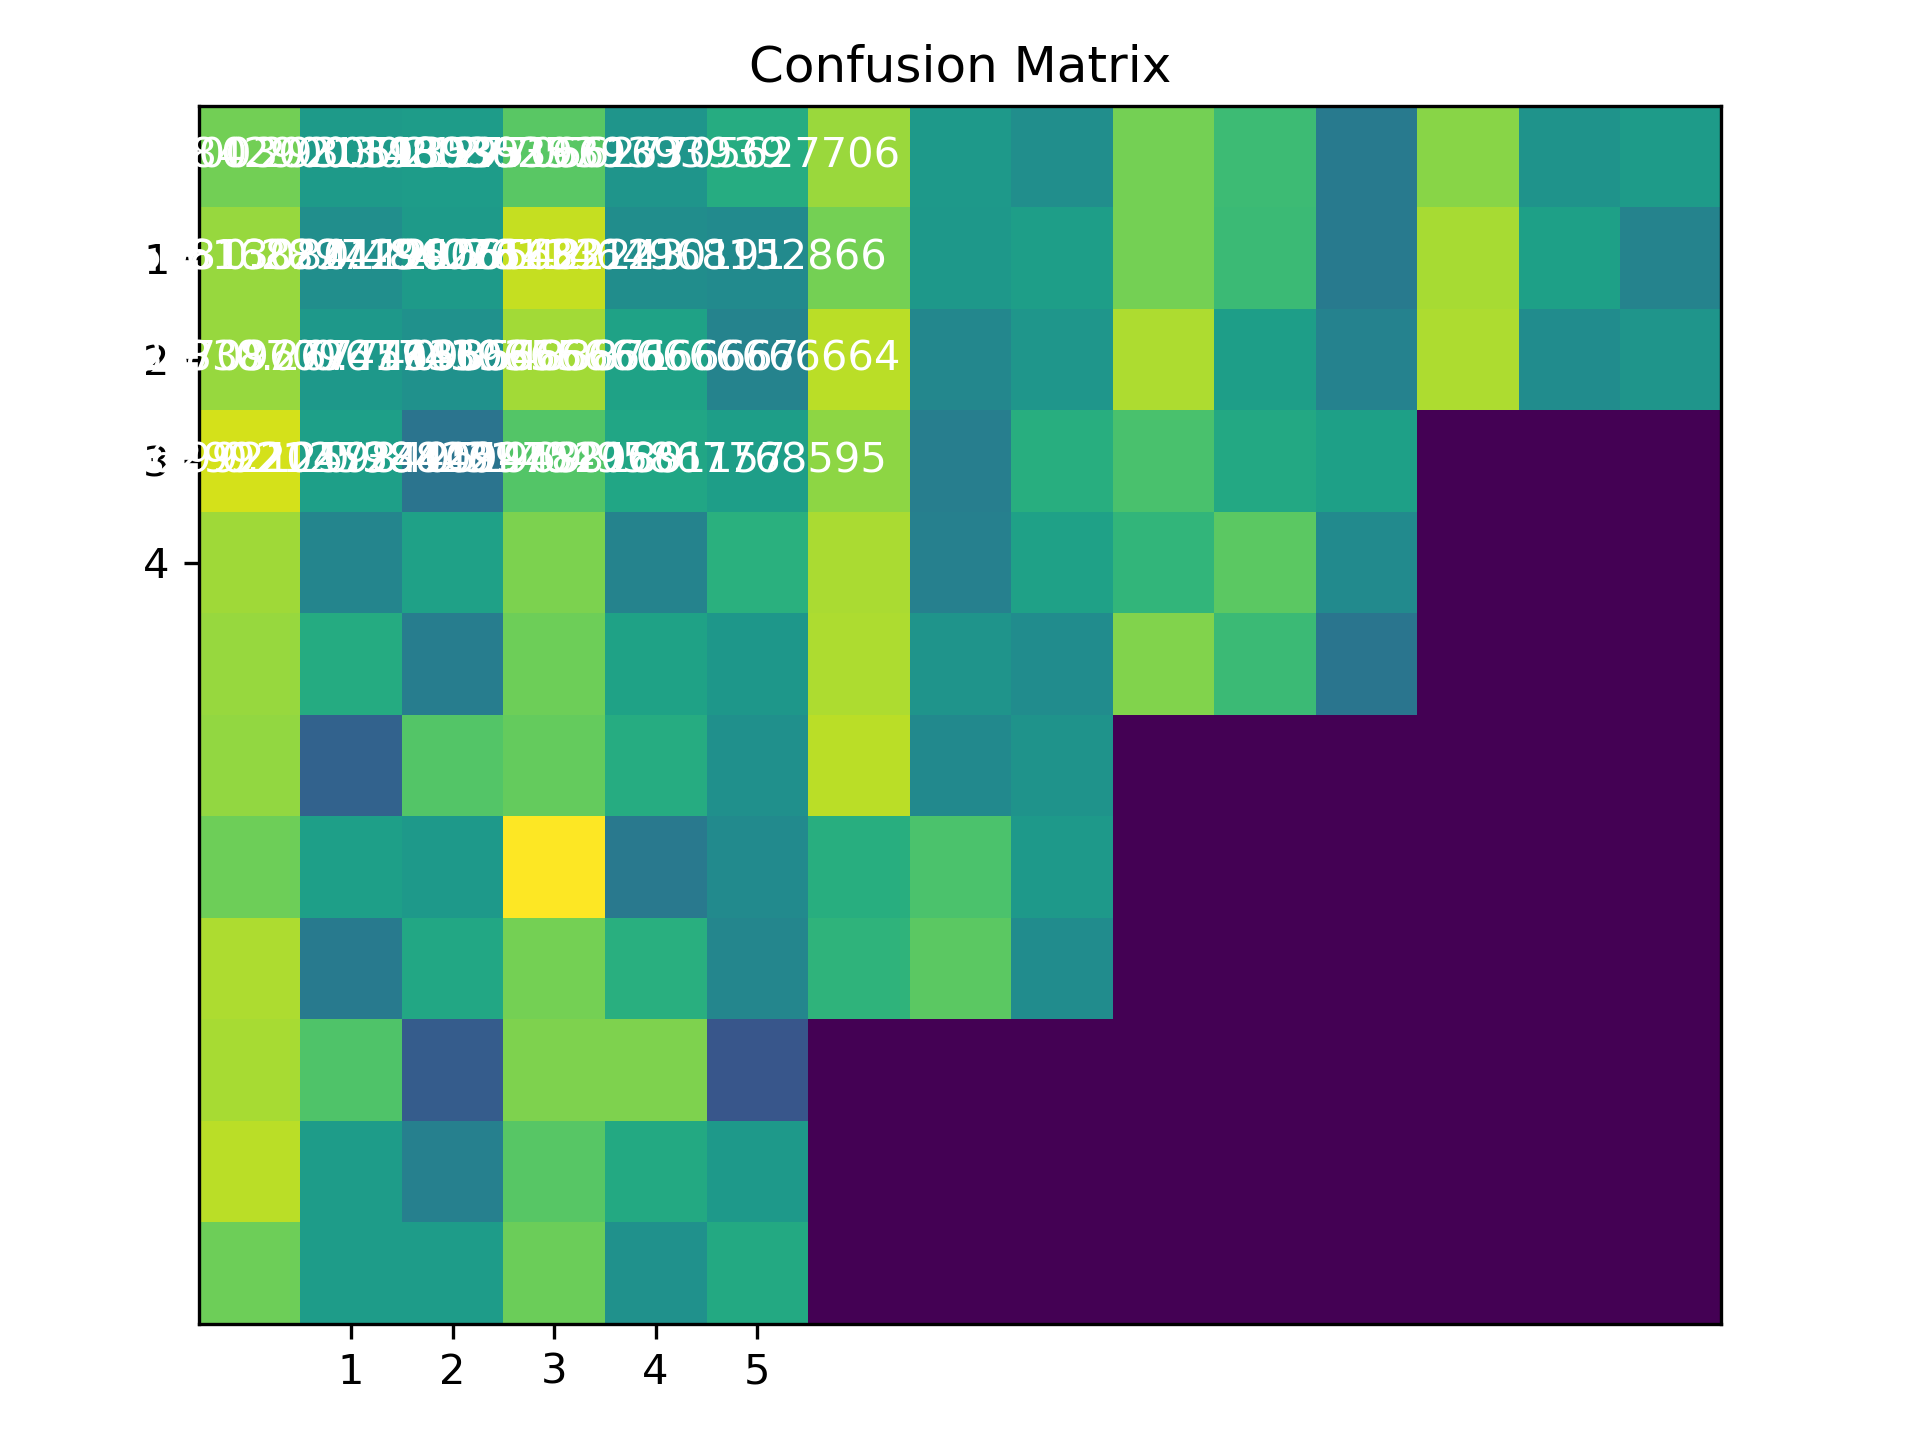
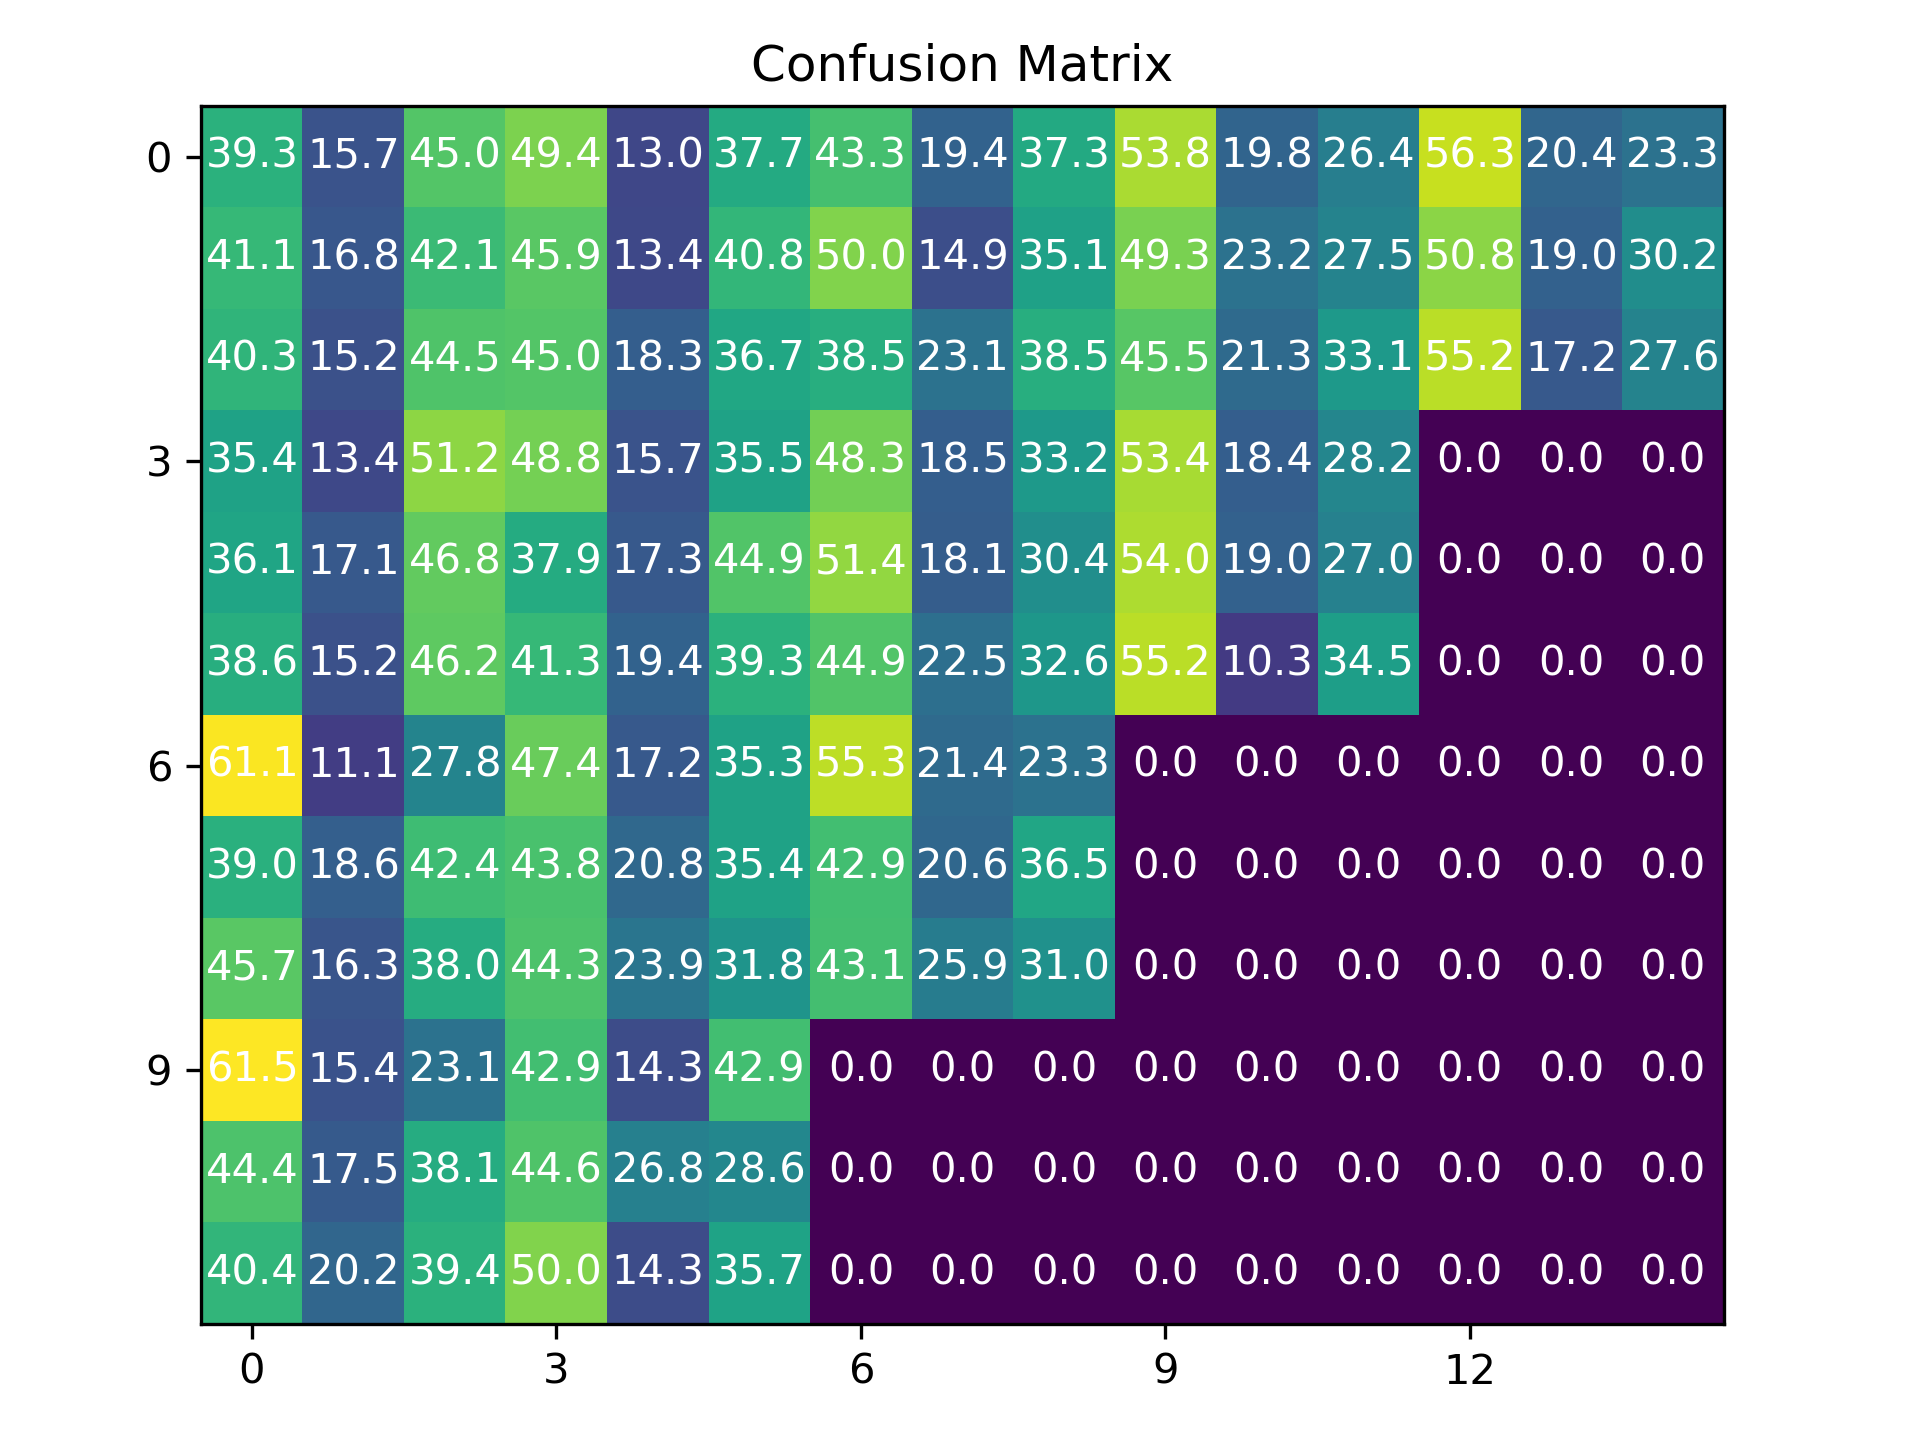
Corrected confmatrix output

diff --git a/disease_forecast/evaluate.py b/disease_forecast/evaluate.py
@@ -22,14 +22,14 @@ def get_output(cmat, exp_dir, task='dx'):
 
         fig, ax = plt.subplots()
         im = ax.imshow(cmat_out)
-        ax.set_xticks(np.arange(num_gap)+1)
-        ax.set_yticks(np.arange(num_T)+1)
-        for i in range(num_T):
-            for j in range(num_gap):
-                text = ax.text(j, i, cmat_out[i, j],\
+        ax.set_xticks(np.arange(0, num_gap*3, 3))
+        ax.set_yticks(np.arange(0, num_T*3, 3))
+        for i in range(num_T*3):
+            for j in range(num_gap*3):
+                text = ax.text(j, i, round(cmat_out[i, j]*100, 1), \
                         ha="center", va="center", color="w")
-                ax.set_title("Confusion Matrix")
-                fig.tight_layout()
+        ax.set_title("Confusion Matrix")
+        fig.tight_layout()
         plt.savefig(exp_dir+'/output.png', dpi=300)
 
 def confmatrix_dx(ypred, y):
